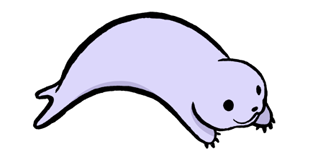
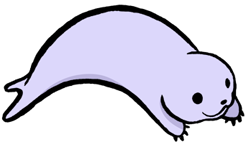
Fixed seal sprite

Changed region(s): [[0.0, 0.028, 0.9919, 1.0]]

diff --git a/skil4/app/scripts/game.js b/skil4/app/scripts/game.js
@@ -51,12 +51,12 @@ window.Game = (function() {
         }
         if (controls.keys.space) {
             this.isPlaying = true;
-            $('.Player').css('background', 'url(../images/SealSwim.png)');
+            $('.Player').css('background', 'url(../images/SealSwim.png) no-repeat');
             $('.Player').css('background-size', '10em');
         }
         else{
-             $('.Player').css('background', 'url(../images/SealSink.png)');
-             $('.Player').css('background-size', '11.6em');
+             $('.Player').css('background', 'url(../images/SealSink.png) no-repeat');
+             $('.Player').css('background-size', '10em');
         }
 
         if (this.song.muted === false) {
@@ -133,8 +133,8 @@ window.Game = (function() {
             document.getElementById('HighScore').innerText = this.highScore;
         }
 
-        $('.Player').css('background', 'url(../images/SealFall.png)');
-        $('.Player').css('background-size', '10em');
+        $('.Player').css('background', 'url(../images/SealFall.png) no-repeat');
+        $('.Player').css('background-size', '8em');
 
         // Should be refactored into a Scoreboard class.
         var that = this;

diff --git a/skil4/app/styles/main.css b/skil4/app/styles/main.css
@@ -5,8 +5,9 @@
     width: 10em;
     height: 5em;
     background: url('../images/SealSwim.png');
-    background-size: 5em; 
-    webkit-transform: translate(0, 40em);
+    background-size: 10em; 
+    background-repeat: none;
+    -webkit-transform: translate(0, 40em);
     -webkit-transition: all 0.3s ease-in-out;
     -moz-transition: all 0.3s ease-in-out;
     -o-transition: all 0.3s ease-in-out;
@@ -138,27 +139,6 @@
     /* background-image: url('../images/pipes.png');*/
     background-image: url('http://flappycreator.com/default/tube2.png');
     background-size: 10em 50em;
-}
-
-/*.Player-Wings {
-    position: absolute;
-    left: 0.25em;
-    top: 0.4em;
-    height: 2em;
-    width: 3em;
-    border-radius: 10px;
-    background-color: orangered;
-    transform-origin: top left;
-    animation: flap 0.4s infinite;
-}*/
-
-@keyframes Swim {
-    from {
-        background: url('../images/Seal.png') bottom;
-    }
-    to {
-        background: url('../images/Seal.png') top;
-    }
 }
 
 .Scoreboard,
